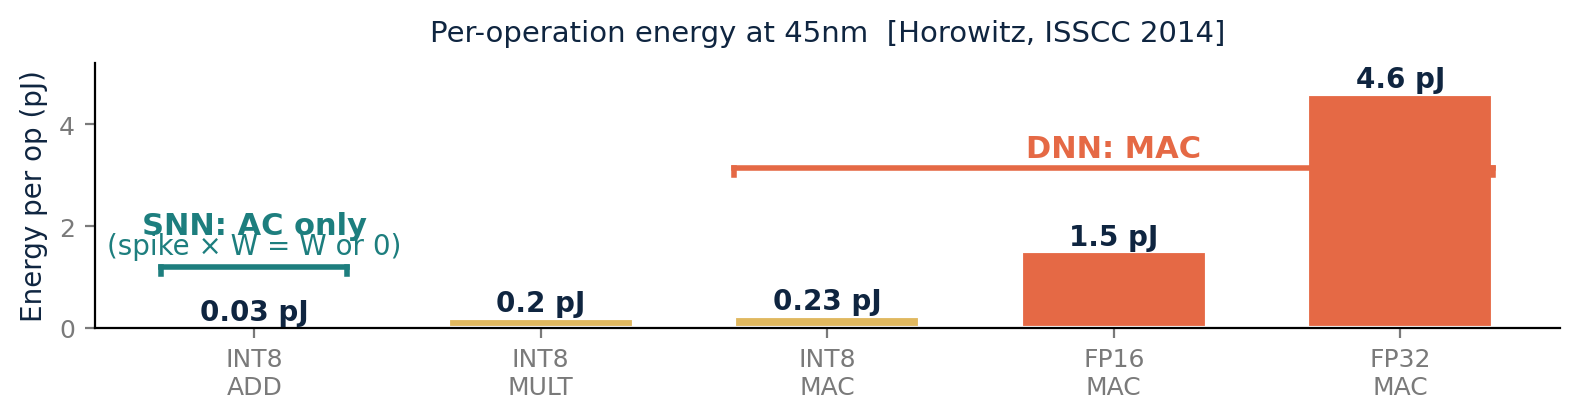
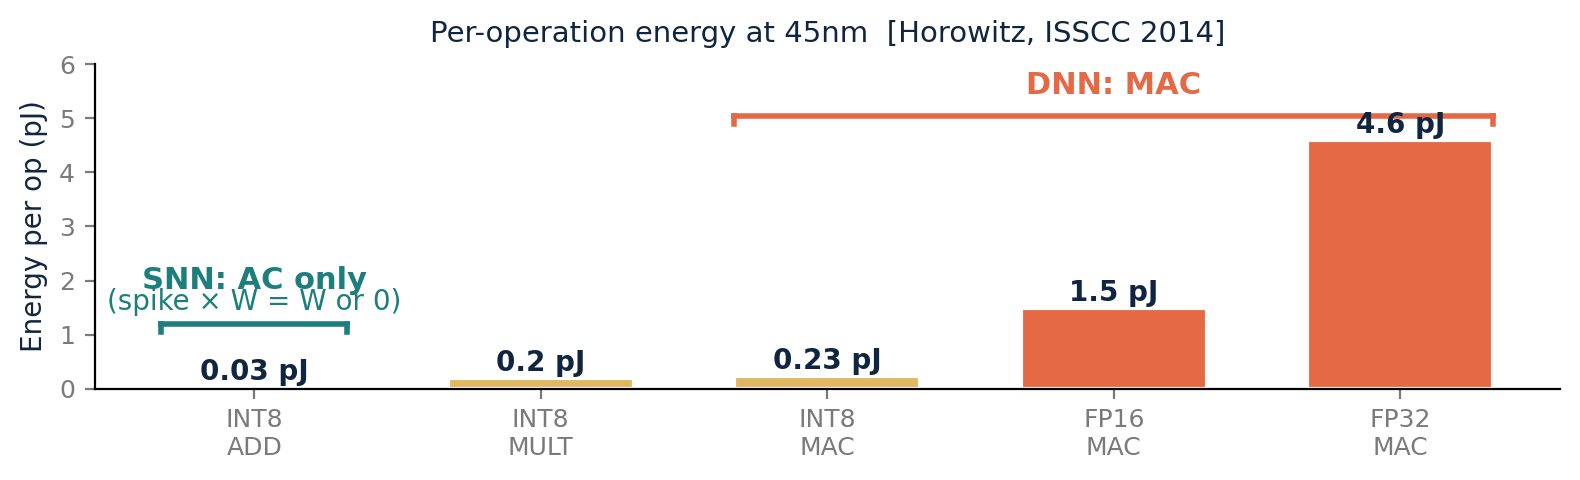
Fix A2/A3 chart annotations — actually clear of bars/labels this time
A2 (mac_vs_ac):
  Previous bracket-style labels still had a problem: the DNN:MAC
  bracket sat at y=3.15, which is INSIDE the FP32 MAC bar (height 4.6).
  Fix: raise ylim 5.2 → 6.0, fig height 2.2 → 2.5, and place the
  DNN:MAC bracket at y=5.05 — clearly above the tallest MAC bar.
  SNN:AC bracket stays at y=1.20 (above the tiny INT8 ADD bar).

A3 (energy_compare):
  Prior xytext=(7.5, 0.45) put '≈ 50× lower' near chart center.
  User wanted it deep in the upper-right.
  Fix: xytext=(11.5, 0.30), font 12pt → 14pt, lw 1.6 → 1.8.
  The arrow now swoops a long curve from far upper-right down to
  the right edge of the '0.27 mJ' label (xy=(1.55, 0.0)).

https://claude.ai/code/session_01KsoZVcMJ4zaC3YipGd4nvb

diff --git a/gen_ppt_visuals.py b/gen_ppt_visuals.py
@@ -352,8 +352,10 @@ print("Saved no_training_acc.png")
 
 
 # ─── 8. AC vs MAC energy (Horowitz 2014, 45nm) — appendix A2 ─────────
-# Flat aspect ratio so it fits below the 3 cards on slide A2
-fig, ax = plt.subplots(figsize=(8.0, 2.2), dpi=200)
+# Flat aspect ratio so it fits below the 3 cards on slide A2.
+# ylim raised to 6.5 so the DNN:MAC bracket sits ABOVE the FP32 bar (4.6)
+# instead of inside it.
+fig, ax = plt.subplots(figsize=(8.0, 2.5), dpi=200)
 ops = ["INT8\nADD", "INT8\nMULT", "INT8\nMAC", "FP16\nMAC", "FP32\nMAC"]
 energy = [0.03, 0.2, 0.23, 1.5, 4.6]
 colors = [TEAL, AMBER, AMBER, CORAL, CORAL]
@@ -361,8 +363,8 @@ bars = ax.bar(ops, energy, color=colors, width=0.65, edgecolor="white", linewidt
 for bar, val in zip(bars, energy):
     ax.text(bar.get_x() + bar.get_width()/2, val + 0.13, f"{val} pJ",
             ha="center", color=NAVY, fontsize=10, fontweight="bold")
-# Category labels — horizontal underlines above bar groups, no arrows
-# "SNN: AC only" over bar 0 (INT8 ADD) — bar 0 spans x ∈ [-0.325, 0.325]
+# Category brackets — both above the tallest bar in their group (clear of bars and value labels)
+# "SNN: AC only" over bar 0 (INT8 ADD, height 0.03)
 ax.plot([-0.325, 0.325], [1.20, 1.20], color=TEAL, lw=2.0)
 ax.plot([-0.325, -0.325], [1.20, 1.05], color=TEAL, lw=2.0)
 ax.plot([ 0.325,  0.325], [1.20, 1.05], color=TEAL, lw=2.0)
@@ -370,14 +372,14 @@ ax.text(0.0, 1.85, "SNN: AC only",
         ha="center", color=TEAL, fontsize=11, fontweight="bold")
 ax.text(0.0, 1.45, "(spike × W = W or 0)",
         ha="center", color=TEAL, fontsize=10)
-# "DNN: MAC" over bars 2–4 (INT8 MAC, FP16 MAC, FP32 MAC)
-ax.plot([1.675, 4.325], [3.15, 3.15], color=CORAL, lw=2.0)
-ax.plot([1.675, 1.675], [3.15, 3.00], color=CORAL, lw=2.0)
-ax.plot([4.325, 4.325], [3.15, 3.00], color=CORAL, lw=2.0)
-ax.text(3.0, 3.35, "DNN: MAC",
+# "DNN: MAC" above bars 2–4 (max bar = FP32 MAC at 4.6) — bracket at y=5.05
+ax.plot([1.675, 4.325], [5.05, 5.05], color=CORAL, lw=2.0)
+ax.plot([1.675, 1.675], [5.05, 4.90], color=CORAL, lw=2.0)
+ax.plot([4.325, 4.325], [5.05, 4.90], color=CORAL, lw=2.0)
+ax.text(3.0, 5.45, "DNN: MAC",
         ha="center", color=CORAL, fontsize=11, fontweight="bold")
 ax.set_ylabel("Energy per op (pJ)", fontsize=10, color=NAVY)
-ax.set_ylim(0, 5.2)
+ax.set_ylim(0, 6.0)
 ax.set_title("Per-operation energy at 45nm  [Horowitz, ISSCC 2014]",
              fontsize=10.5, color=NAVY, pad=8)
 ax.spines["top"].set_visible(False); ax.spines["right"].set_visible(False)
@@ -407,12 +409,12 @@ ax.set_title("Keyword spotting on identical task  [Blouw et al. 2019]",
 ax.spines["top"].set_visible(False); ax.spines["right"].set_visible(False)
 ax.tick_params(axis="both", labelsize=9, colors=GRAY)
 ax.invert_yaxis()
-# Speedup annotation — text in upper-right (clear of all bars),
-# arrow tip lands just to the RIGHT of the "0.27 mJ" label on the Loihi row
+# Speedup annotation — text deep in the upper-right empty region;
+# arrow tip lands directly to the RIGHT of the "0.27 mJ" label on the Loihi row
 ax.annotate("≈ 50× lower",
-            xy=(1.45, 0.0), xytext=(7.5, 0.45),
-            fontsize=12, color=TEAL, fontweight="bold",
-            arrowprops=dict(arrowstyle="->", color=TEAL, lw=1.6,
+            xy=(1.55, 0.0), xytext=(11.5, 0.30),
+            fontsize=14, color=TEAL, fontweight="bold",
+            arrowprops=dict(arrowstyle="->", color=TEAL, lw=1.8,
                             connectionstyle="arc3,rad=-0.25"))
 plt.tight_layout()
 plt.savefig("ppt_assets/gen/energy_compare.png", bbox_inches="tight",